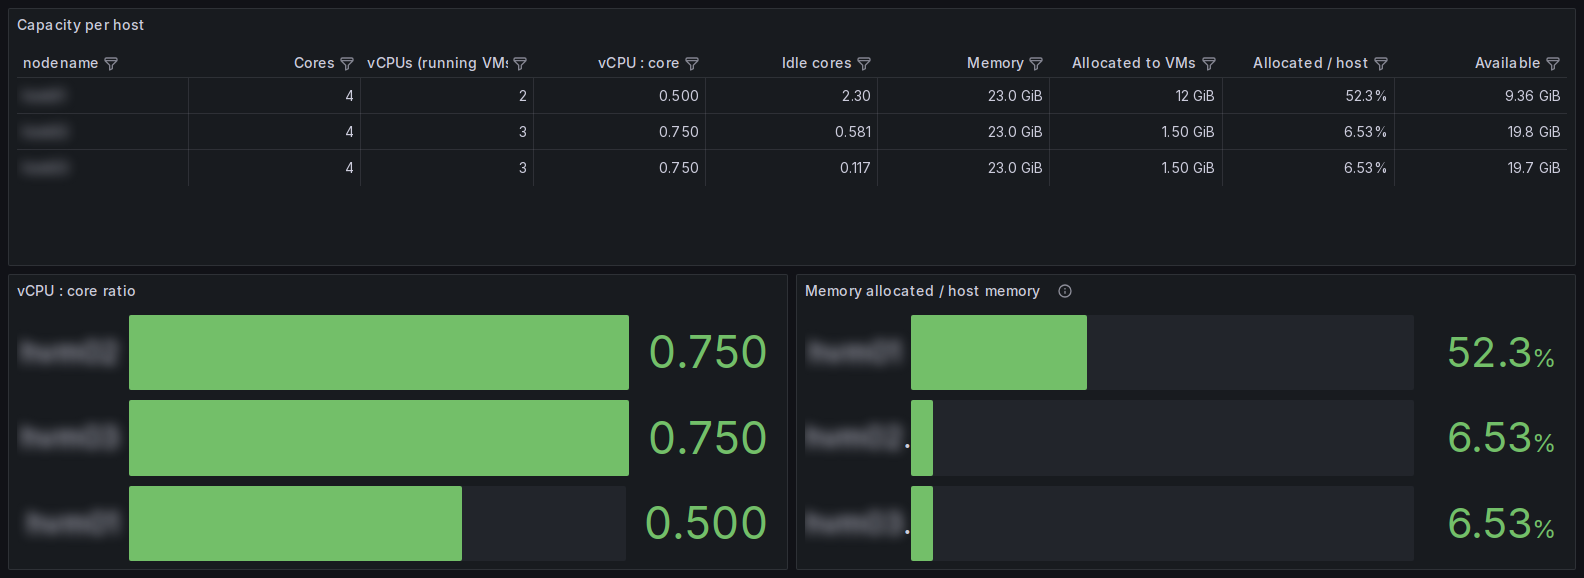
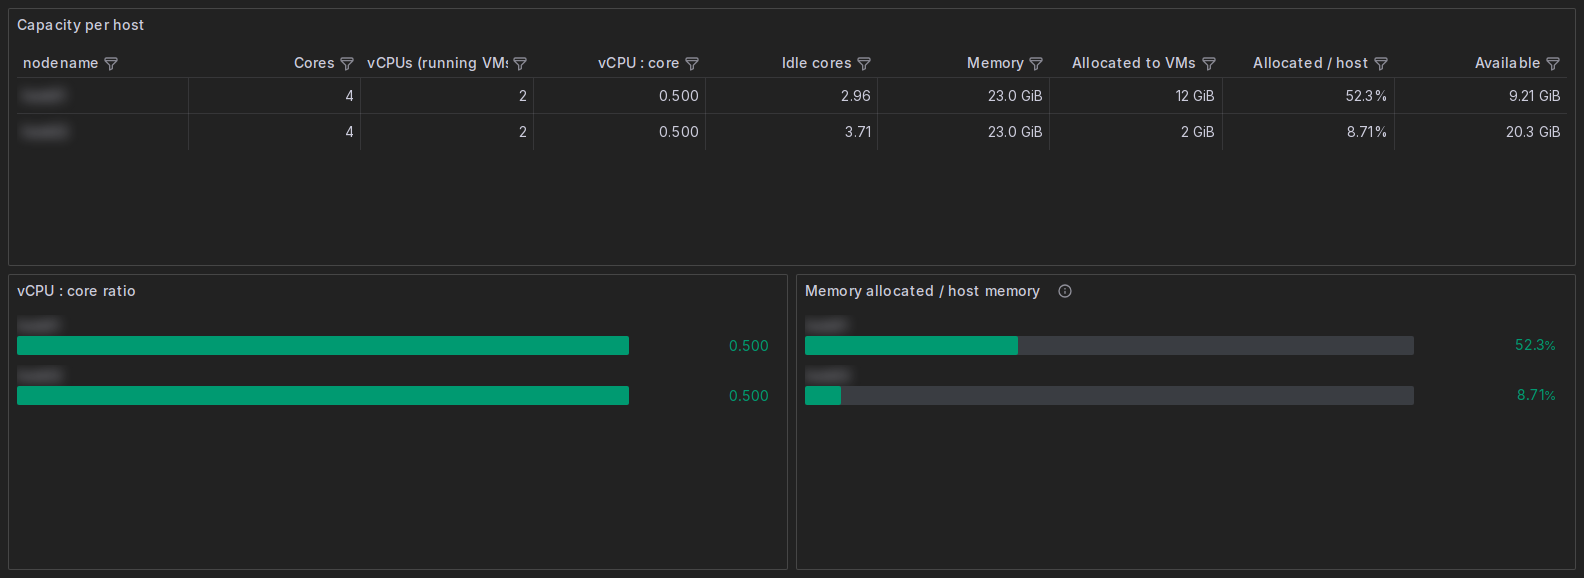
Release 0.7.0: HPE colors and backgrounds, real shared-storage use, HVM clouds only, DNS and more appliance settings
Screenshots refreshed for the HPE colors (resource-weight.png kept: only one lab VM is busy now, so the CPU treemap renders as one dark box).

diff --git a/collector/vmeinsight/__init__.py b/collector/vmeinsight/__init__.py
@@ -1,2 +1,2 @@
 """vme-insight collector."""
-__version__ = "0.6.1"
+__version__ = "0.7.0"

diff --git a/CHANGELOG.md b/CHANGELOG.md
@@ -1,6 +1,6 @@
 # Changelog
 
-## Unreleased (0.7.0)
+## 0.7.0 (2026-11-17)
 
 * **HPE colors.** The dashboards use colors from the HPE Design System: green `#009a71` for ok, orange `#d36d00` for warnings, red `#ec3331` for critical, blue `#0070f8` for counts and gray `#7d8a92` for off or unknown. Each one reads on both the dark and the light background. Lines that compare several hosts or VMs keep Grafana's own series colors, because Grafana can't be given a different set.
 * **HPE backgrounds.** Grafana's dark theme now uses a `#222222` page and panels, and the light theme uses white (`#FFFFFF`). Thin borders separate the panels. This also applies to the dashboards shown in the Morpheus UI. See [DASHBOARDS: Colors and backgrounds](docs/DASHBOARDS.md#colors-and-backgrounds).

diff --git a/README.md b/README.md
@@ -194,6 +194,7 @@ Full walkthrough, including a read-only VME account: **[docs/INSTALL.md](docs/IN
 
 | vme-insight | VME | vme-insight-plugin (optional) |
 |---|---|---|
+| 0.7.0 | 9.1 or later | 0.1.0 or later (0.1.6 matches each user's Morpheus theme) |
 | 0.6.1 | 9.1 or later | 0.1.0 or later |
 | 0.6.0 | 9.1 or later | 0.1.0 or later |
 | 0.5.0 | 9.1 or later | 0.1.0 or later |
